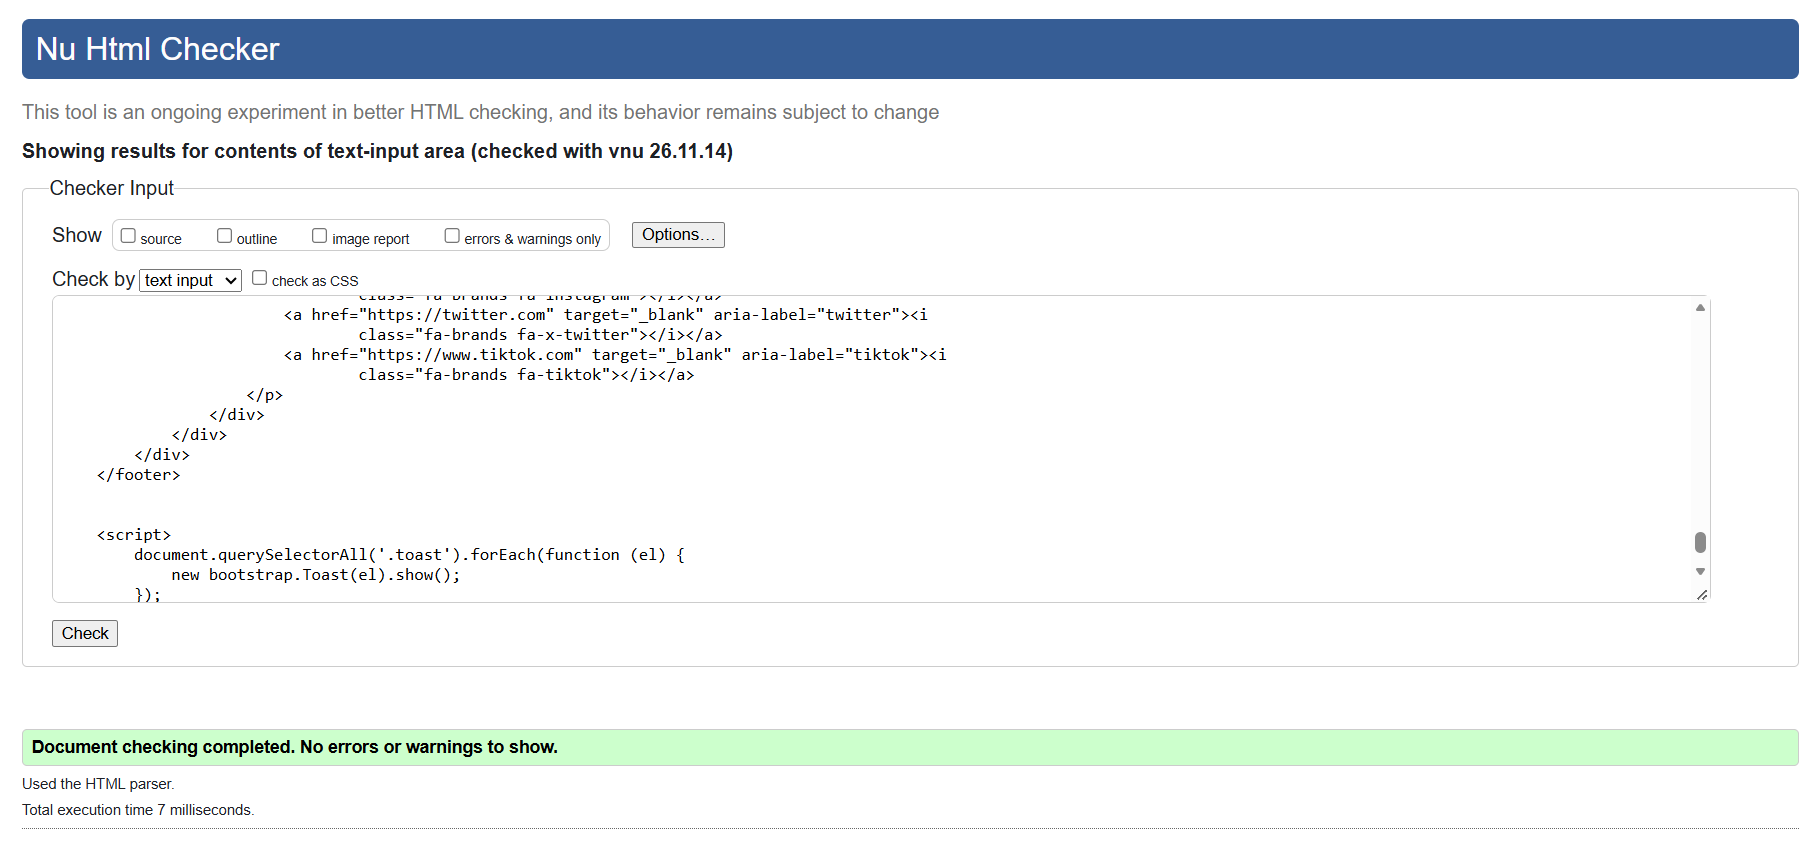
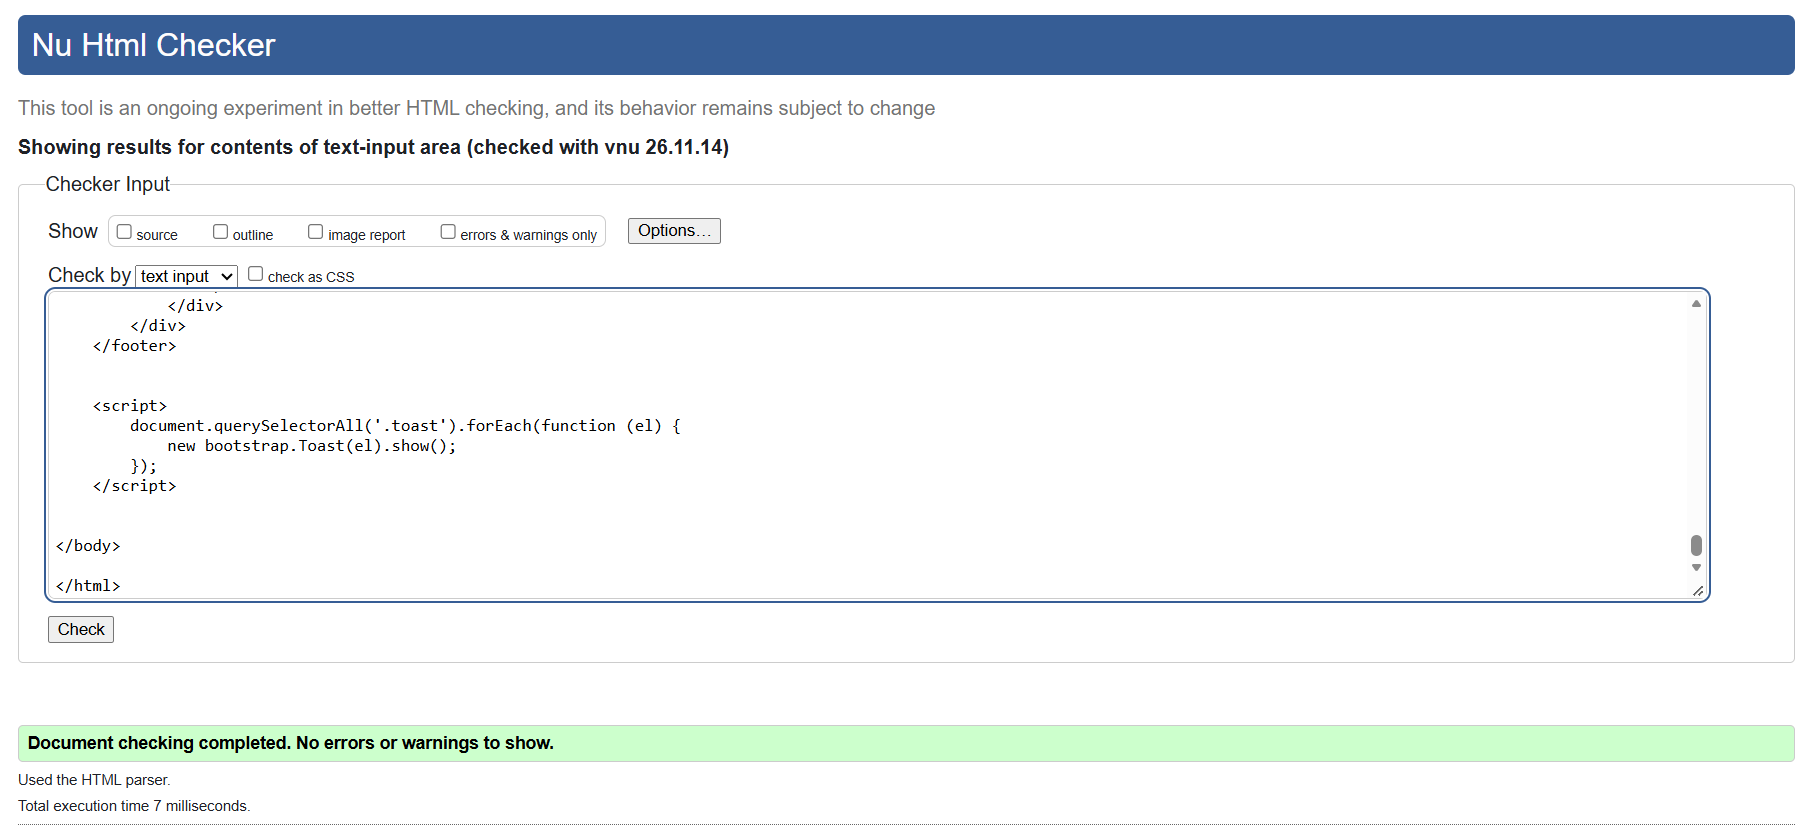
finished HTML testing

diff --git a/testing.md b/testing.md
@@ -155,6 +155,47 @@ For the add/edit plant form:
 <img src="./media/testing/lighthouse/add.png">
 
 ## HTML Testing
+Using the [HTML Validator](https://validator.w3.org/), I tested each page by copying the page source into the validator and have received no errros
+
+For the home page:
+
+<img src="./media/testing/html/home.png">
+
+For the plants page:
+
+<img src="./media/testing/html/plants.png">
+
+For the plant details page:
+
+<img src="./media/testing/html/plant-detail.png">
+
+For the basket page:
+
+<img src="./media/testing/html/basket.png">
+
+For the checkout page:
+
+<img src="./media/testing/html/checkout.png">
+
+For the checkout success page:
+
+<img src="./media/testing/html/checkout-success.png">
+
+For the profile page:
+
+<img src="./media/testing/html/profile.png">
+
+For the tracker page:
+
+<img src="./media/testing/html/tracker.png">
+
+For the tracker details page:
+
+<img src="./media/testing/html/tracker-details.png">
+
+For the add/edit plant form:
+
+<img src="./media/testing/html/add.png">
 
 
 ## CSS Testing
